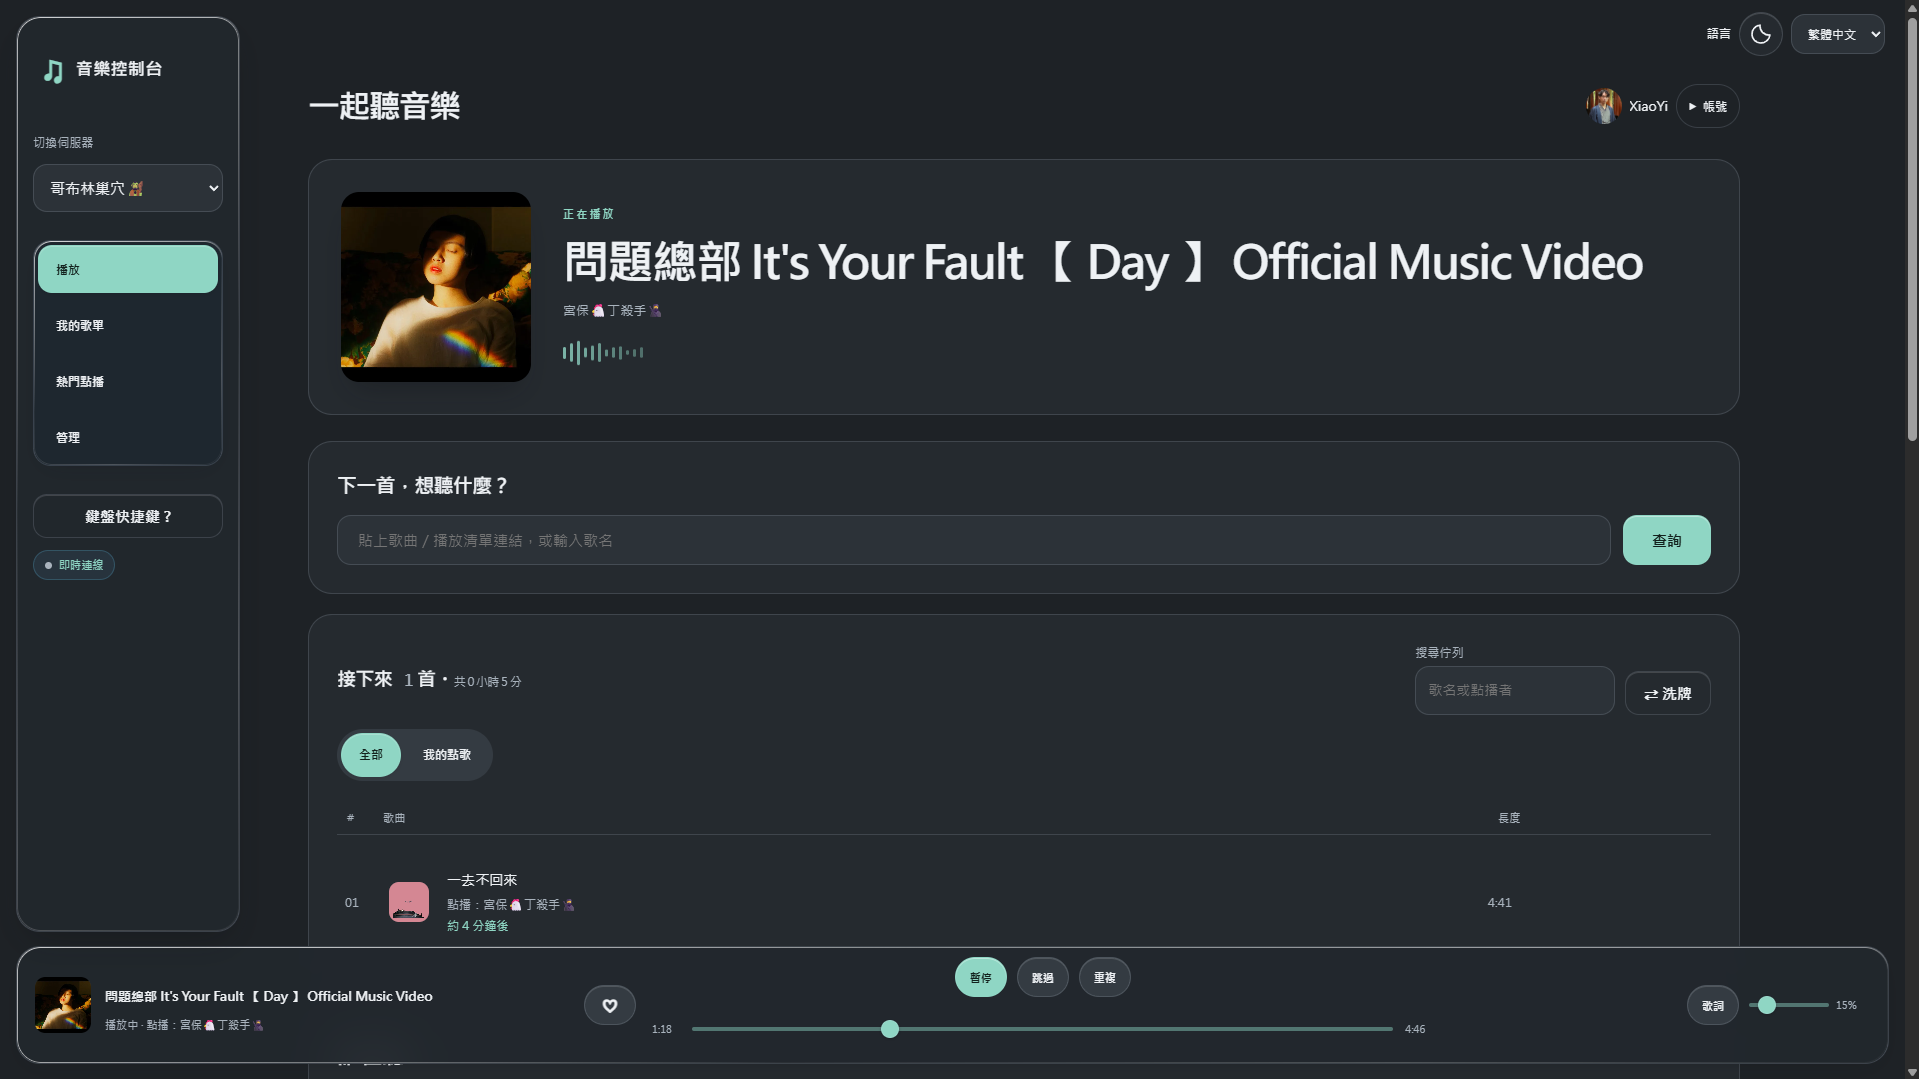
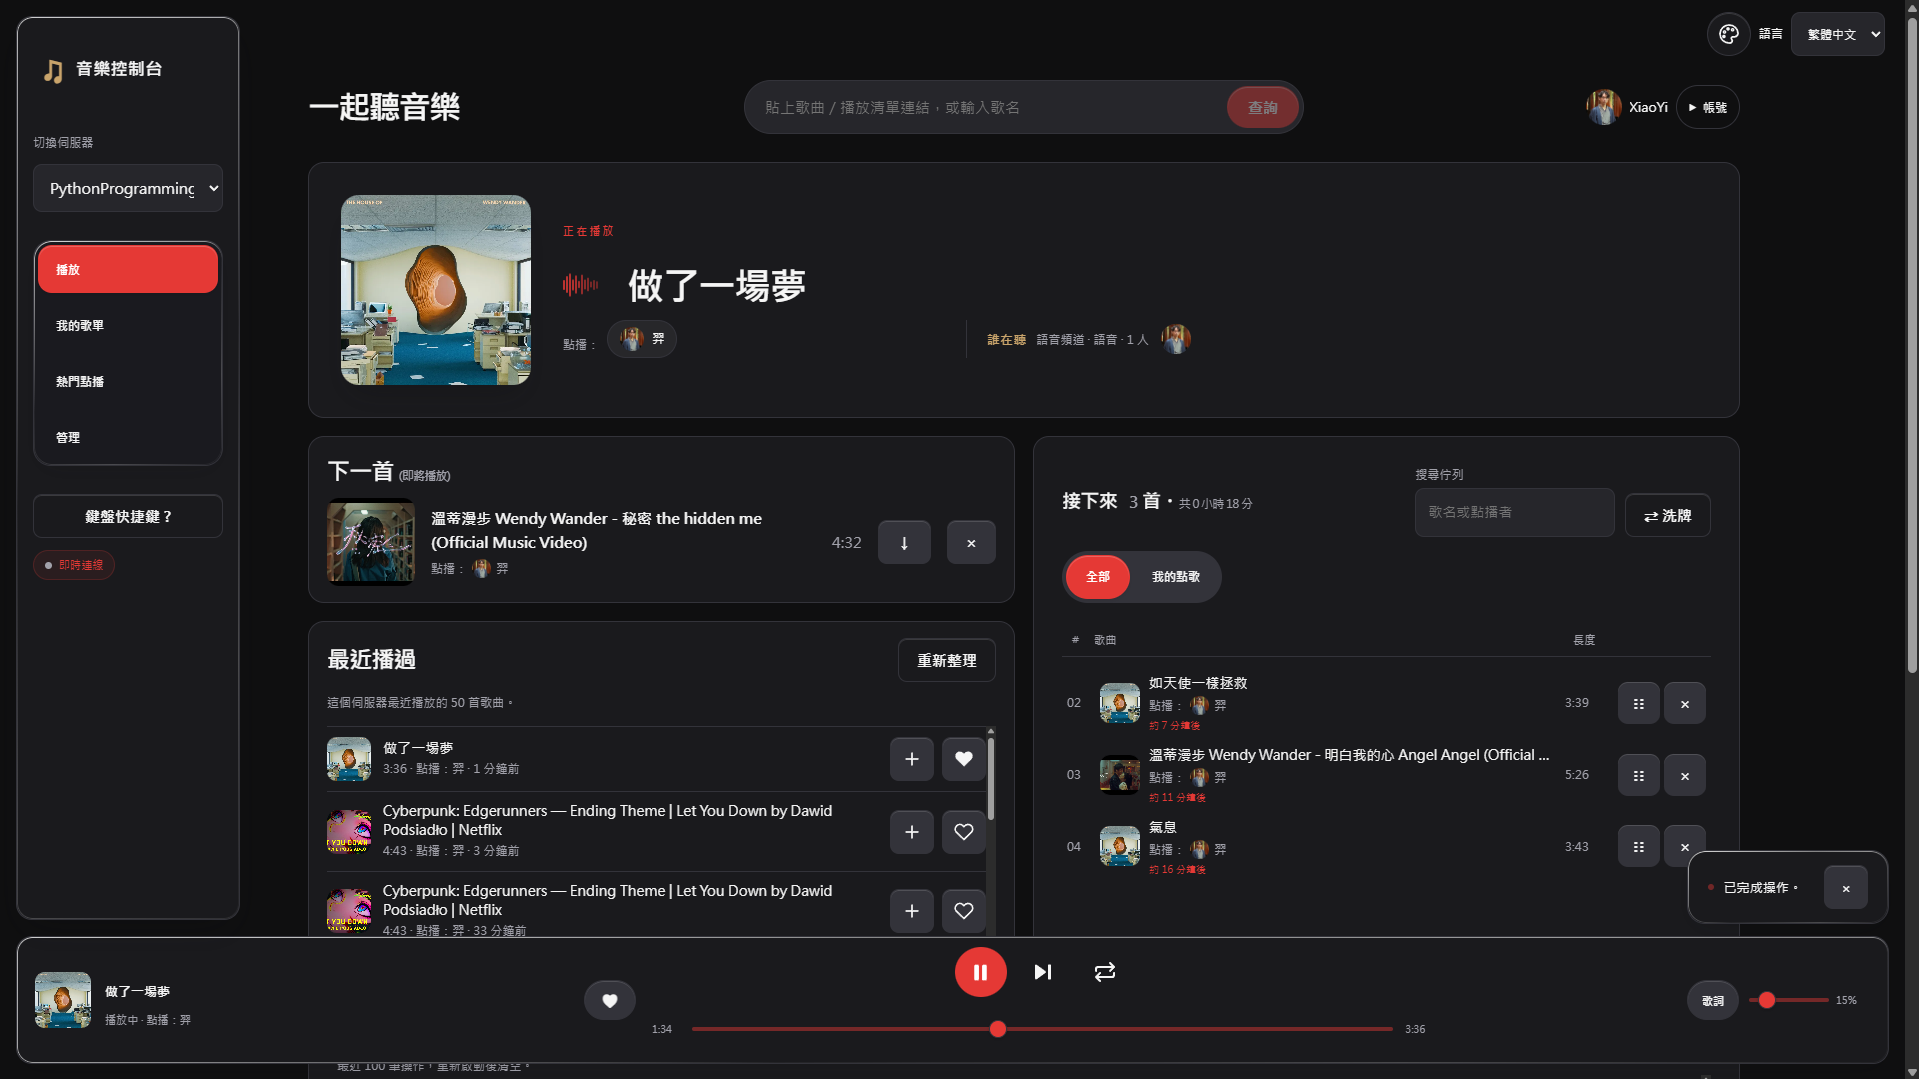
Refresh README desktop screenshots with search and playlist views

diff --git a/README.md b/README.md
@@ -14,7 +14,11 @@
 
 伺服器成員只要用自己的 Discord 帳號登入網頁，就能找歌、排歌、拖曳調整順序或控制播放，**再也不用背一堆文字指令**。同時，機器人在 Discord 裡的傳統指令玩法也完全保留，網頁端更直接沿用了原本的權限群組與限制設定，無痛接軌。
 
-![桌機畫面](docs/images/dashboard-desktop.png)
+![桌機畫面：播放介面與待播佇列](docs/images/dashboard-desktop.png)
+
+![桌機畫面：搜尋歌曲與選擇結果](docs/images/dashboard-desktop-search.png)
+
+![桌機畫面：匯入個人歌單](docs/images/dashboard-desktop-playlist.png)
 
 ## 特色功能
 
@@ -125,7 +129,11 @@ The classic [Just-Some-Bots MusicBot](https://github.com/Just-Some-Bots/MusicBot
 
 Members sign in with their Discord account, then search, queue, reorder and control playback without typing commands. The bot still works exactly as before in Discord, and the dashboard follows the same permission groups and limits.
 
-![Dashboard on desktop](docs/images/dashboard-desktop.png)
+![Dashboard on desktop: player and queue](docs/images/dashboard-desktop.png)
+
+![Dashboard search and song selection](docs/images/dashboard-desktop-search.png)
+
+![Dashboard playlist import dialog](docs/images/dashboard-desktop-playlist.png)
 
 ## Features
 
